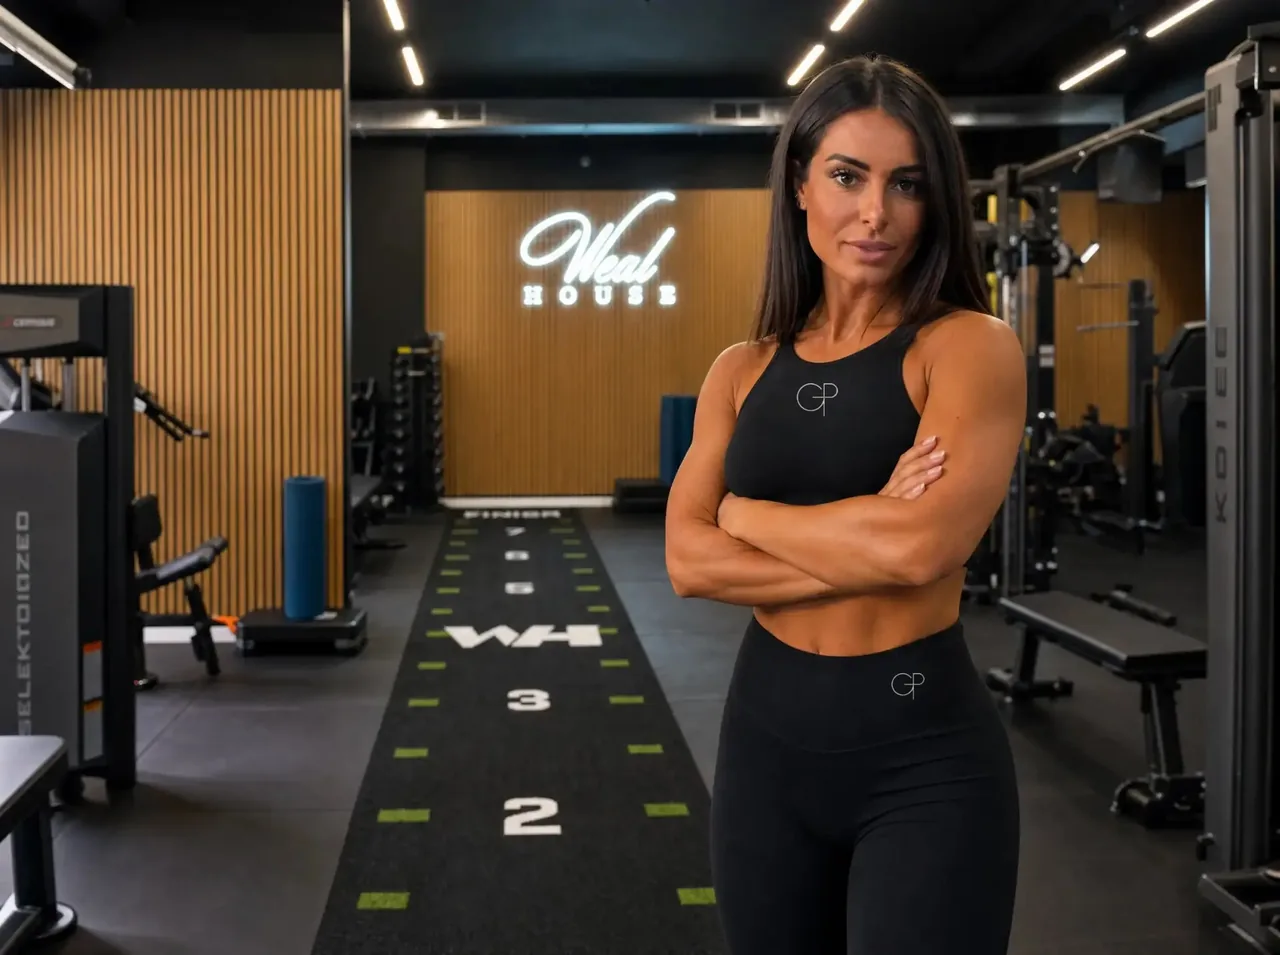
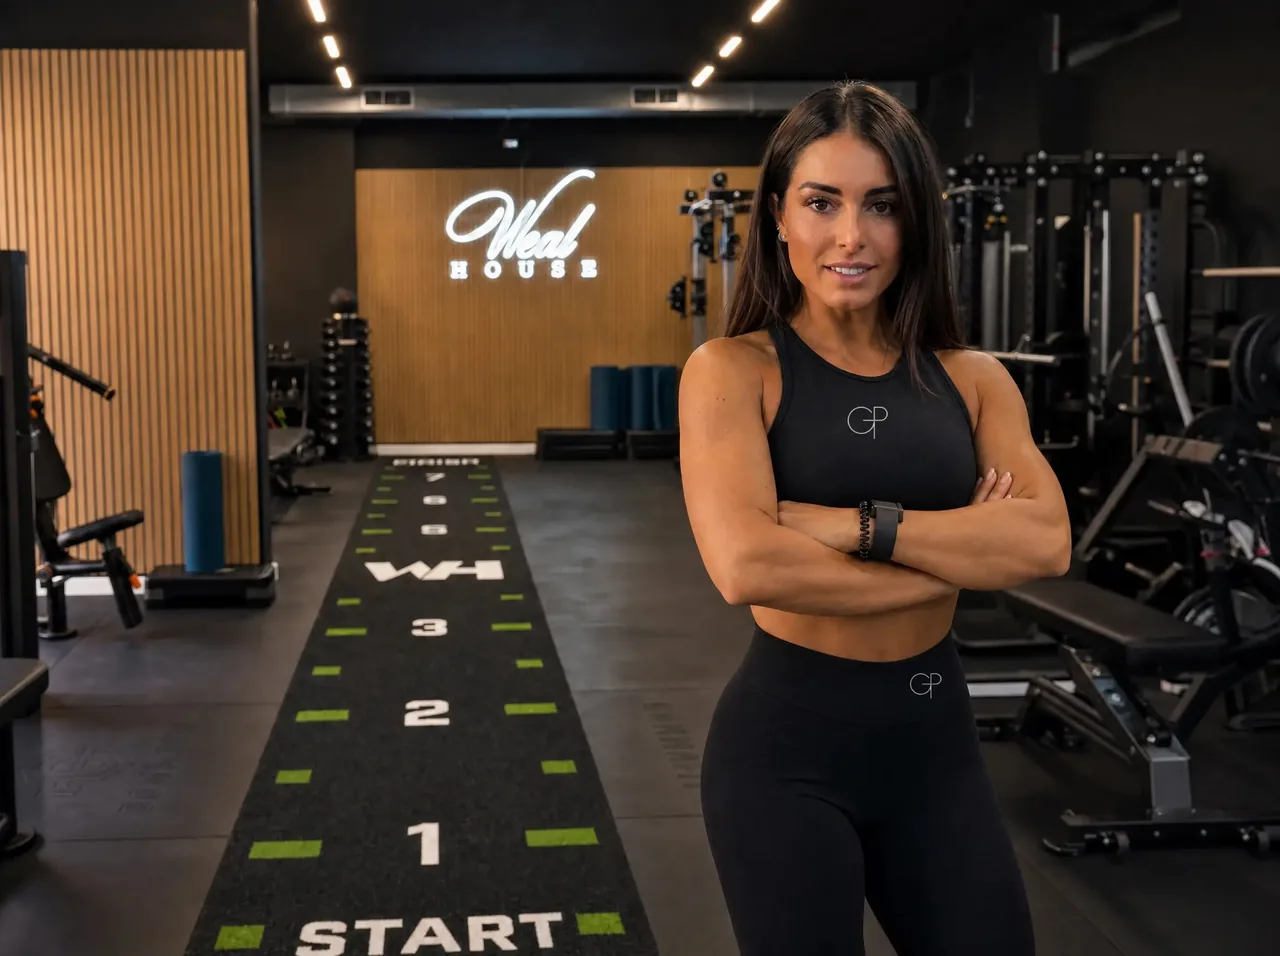
Hero: foto di Giorgia aggiornate (GP_hero.zip), WebP rigenerati

diff --git a/index.html b/index.html
@@ -59,10 +59,10 @@
       </div>
       <figure class="hero-photo">
         <picture>
-          <source media="(max-width: 767px)" type="image/webp" srcset="assets/hero/GP_hero_giorgia_mobile_5x4-900.webp 900w, assets/hero/GP_hero_giorgia_mobile_5x4.webp 1791w" sizes="100vw" width="1791" height="1433">
-          <source media="(max-width: 767px)" srcset="assets/hero/GP_hero_giorgia_mobile_5x4.jpg" width="1791" height="1433">
-          <source type="image/webp" srcset="assets/hero/GP_hero_giorgia_4x3-1280.webp 1280w, assets/hero/GP_hero_giorgia_4x3.webp 1920w" sizes="100vw" width="1920" height="1433">
-          <img src="assets/hero/GP_hero_giorgia_4x3.jpg" width="1920" height="1433" alt="Giorgia Piras, personal trainer, nella palestra Weal House a Roma" fetchpriority="high" decoding="async">
+          <source media="(max-width: 767px)" type="image/webp" srcset="assets/hero/GP_hero_giorgia_mobile_5x4-900.webp 900w, assets/hero/GP_hero_giorgia_mobile_5x4.webp 2180w" sizes="100vw" width="2180" height="1744">
+          <source media="(max-width: 767px)" srcset="assets/hero/GP_hero_giorgia_mobile_5x4.jpg" width="2180" height="1744">
+          <source type="image/webp" srcset="assets/hero/GP_hero_giorgia_4x3-1280.webp 1280w, assets/hero/GP_hero_giorgia_4x3.webp 2336w" sizes="100vw" width="2336" height="1744">
+          <img src="assets/hero/GP_hero_giorgia_4x3.jpg" width="2336" height="1744" alt="Giorgia Piras, personal trainer, nella palestra Weal House a Roma" fetchpriority="high" decoding="async">
         </picture>
       </figure>
     </section>

diff --git a/tools/build-pages.py b/tools/build-pages.py
@@ -172,10 +172,10 @@ home = f"""    <section class="hero" aria-labelledby="hero-title">
       </div>
       <figure class="hero-photo">
         <picture>
-          <source media="(max-width: 767px)" type="image/webp" srcset="assets/hero/GP_hero_giorgia_mobile_5x4-900.webp 900w, assets/hero/GP_hero_giorgia_mobile_5x4.webp 1791w" sizes="100vw" width="1791" height="1433">
-          <source media="(max-width: 767px)" srcset="assets/hero/GP_hero_giorgia_mobile_5x4.jpg" width="1791" height="1433">
-          <source type="image/webp" srcset="assets/hero/GP_hero_giorgia_4x3-1280.webp 1280w, assets/hero/GP_hero_giorgia_4x3.webp 1920w" sizes="100vw" width="1920" height="1433">
-          <img src="assets/hero/GP_hero_giorgia_4x3.jpg" width="1920" height="1433" alt="Giorgia Piras, personal trainer, nella palestra Weal House a Roma" fetchpriority="high" decoding="async">
+          <source media="(max-width: 767px)" type="image/webp" srcset="assets/hero/GP_hero_giorgia_mobile_5x4-900.webp 900w, assets/hero/GP_hero_giorgia_mobile_5x4.webp 2180w" sizes="100vw" width="2180" height="1744">
+          <source media="(max-width: 767px)" srcset="assets/hero/GP_hero_giorgia_mobile_5x4.jpg" width="2180" height="1744">
+          <source type="image/webp" srcset="assets/hero/GP_hero_giorgia_4x3-1280.webp 1280w, assets/hero/GP_hero_giorgia_4x3.webp 2336w" sizes="100vw" width="2336" height="1744">
+          <img src="assets/hero/GP_hero_giorgia_4x3.jpg" width="2336" height="1744" alt="Giorgia Piras, personal trainer, nella palestra Weal House a Roma" fetchpriority="high" decoding="async">
         </picture>
       </figure>
     </section>
